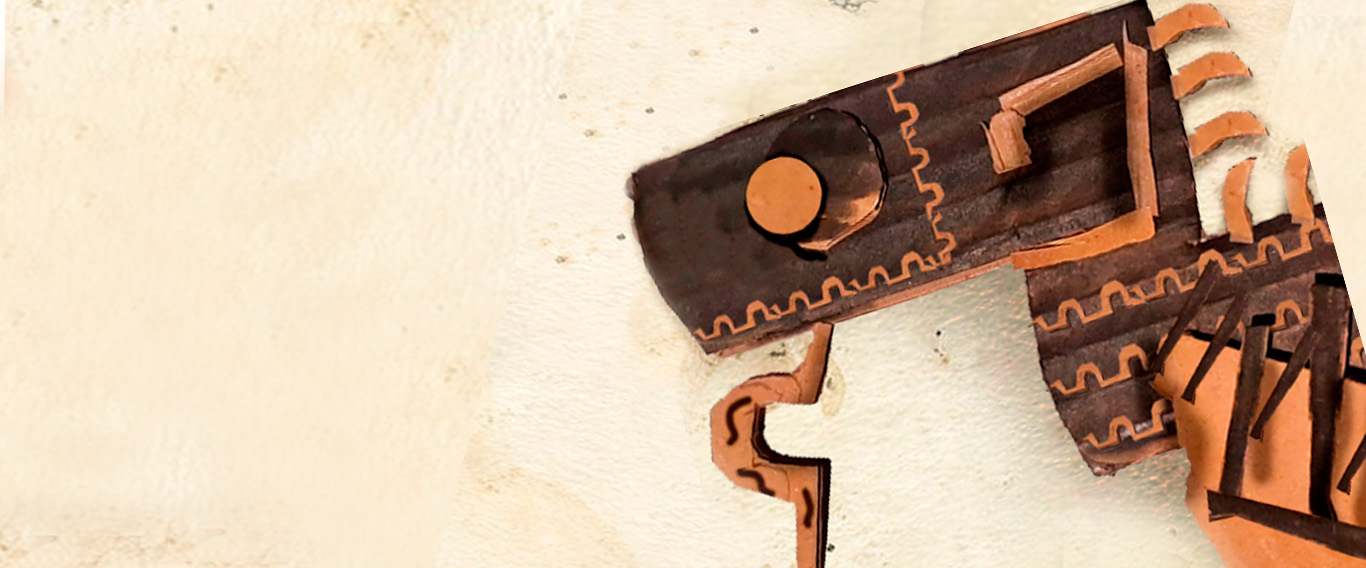
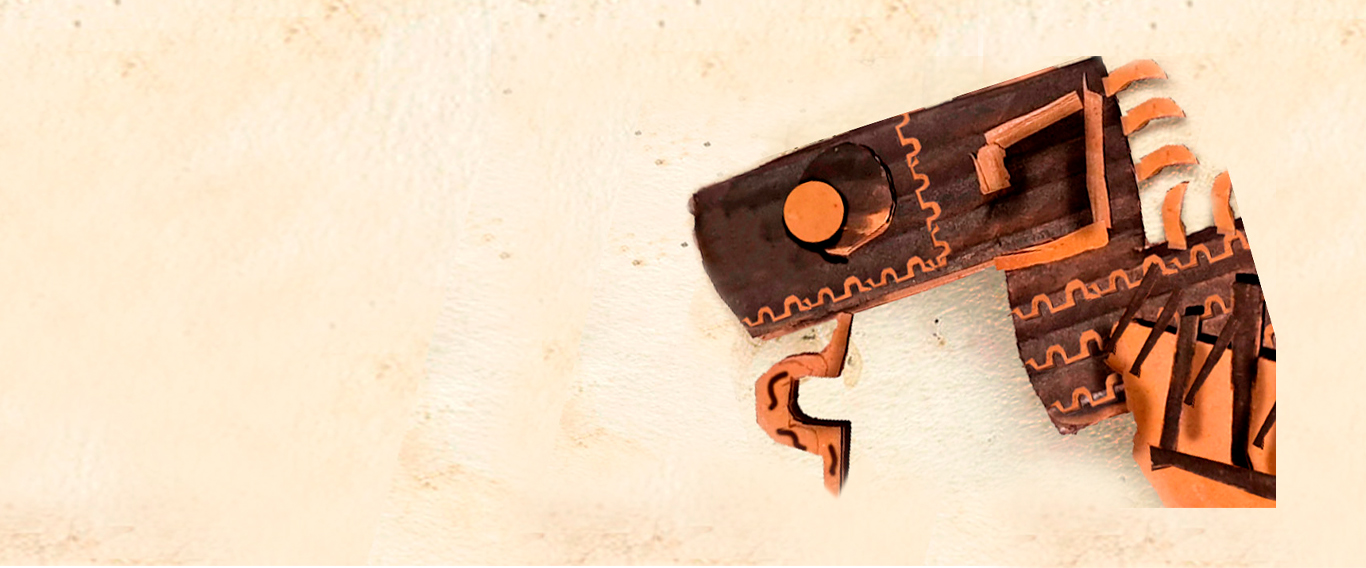
CARRUSEL CORREGIDO
carrusel corregido y algún pequeño cambio

diff --git a/home.html b/home.html
@@ -76,7 +76,7 @@
                             </li>
 
                             <li class="nav-item">
-                                <a class="nav-link active" aria-current="page" href="pagina2.html" id="elementos-navbar">
+                                <a class="nav-link active" aria-current="page" href="historia-p2.html" id="elementos-navbar">
                                     Productos
                                 </a>
                             </li>
@@ -131,7 +131,7 @@
                                     Ecológica
                                 </div>
                                 <p id="textocolumna">
-                                    En Barda, somos más que una cerveza. Somos una tradición, una celebración de la rica historia y cultura de Asturias.
+                                    Sotenible , somos más que una marca. Un gran compromiso àra preservar la rica historia y cultura de Asturias.
                                 </p>
                                 <div>
                                     <img src="Images/images-p1/logo2.png" class="img-fluid rounded-circle" alt="">
@@ -145,7 +145,7 @@
                                     Calidad
                                 </div>
                                 <p id="textocolumna">
-                                    Elaborada con ingredientes cuidadosamente seleccionados, cada sorbo captura la esencia de Asturias: natural, fresca y llena de carácter.
+                                    Elaborada con ingredientes cuidadosamente seleccionados, cada sorbo captura la esencia de Asturias.
                                 </p>
                                 <div>
                                     <img src="Images/images-p1/logo3.png" class="img-fluid rounded-circle" alt="">
@@ -214,12 +214,12 @@
 
 
 
-            <div class="partes-apareciendo">
+            <div class="carrusel">
                 <div class="carrusel">
                     <div id="carouselExampleFade" class="carousel slide carousel-fade" data-bs-ride="carousel">
                         <div class="carousel-inner">
                         <div class="carousel-item active" data-bs-interval="1500"> 
-                            <img src="Images/images-p1/trasgu carrusel.jpg" alt="Imagen 1">
+                            <img src="Images/images-p1/trasgu carrusel.jpg" alt=>
                             <div class="carousel-caption">
                                 <h2 id="pretitulocarrusel"> gama cerveza</h2>
                                 <h1 id="titulocarrusel">NEGRA</h1>
@@ -228,7 +228,7 @@
                             </div>
                         </div>
                         <div class="carousel-item" data-bs-interval="1500"> 
-                            <img src="Images/images-p1/cuelebre carrusel.jpg" alt="Imagen 2">
+                            <img src="Images/images-p1/cuelebre carrusel.jpg" alt=>
                             <div class="carousel-caption">
                                 <h2 id="pretitulocarrusel"> gama cerveza</h2>
                                 <h5 id="titulocarrusel">NEGRA</h5>
@@ -237,7 +237,7 @@
                             </div>
                         </div>
                         <div class="carousel-item" data-bs-interval="1500">
-                            <img src="Images/images-p1/xana carrusel.jpg" alt="Imagen 3">
+                            <img src="Images/images-p1/xana carrusel.jpg" alt=>
                             <div class="carousel-caption">
                                 <h2 id="pretitulocarrusel"> gama cerveza</h2>
                                 <h5 id="titulocarrusel">NEGRA</h5>

diff --git a/historia-p2.html b/historia-p2.html
@@ -93,11 +93,11 @@
             
             <div class="row">
               <div class="col-xl-6 col-md-6 col-sm-6">
-                <img src="Images/images-p2/IMAGEN2 PAGINA 2.png" class="img-fluid rounded" alt="Imagen 1 de Cervezas">
+                <img src="Images/images-p2/IMAGEN2 PAGINA 2.png" class="img-fluid rounded" alt=>
               </div>
               
               <div class="col-xl-6 col-md-6 col-sm-6">
-                <img src="Images/images-p2/IMAGEN1 PAGINA 2.png" class="img-fluid rounded" alt="Imagen 2 de Cervezas">
+                <img src="Images/images-p2/IMAGEN1 PAGINA 2.png" class="img-fluid rounded" alt=>
               </div>
             </div>
       
@@ -105,7 +105,7 @@
 
             <div class="row">
               <div class="col-xl-12 col-md-12 col-sm-12">
-                <img src="Images/images-p2/IMAGEN3 PAGINA 2.png" class="imagenfinal" alt="Imagen 3 de Cervezas">
+                <img src="Images/images-p2/IMAGEN3 PAGINA 2.png" class="imagenfinal" alt=>
               </div>
             </div>
 
@@ -114,7 +114,7 @@
           </div>
       
           <div class="col-xl-4 col-md-4 col-sm-4">
-            <img src="Images/images-p2/wdagrth.png" class="sticky-image" alt="Imagen Sticky a la derecha">
+            <img src="Images/images-p2/wdagrth.png" class="sticky-image" alt=>
           </div>
         </div>
       </div>

diff --git a/css/style-p1.css b/css/style-p1.css
@@ -162,7 +162,7 @@
 
     .titulosapartado2{
         font-family: "DUST", sans-serif;
-        font-size: 200px;
+        font-size: 170px;
         color: black;
     }
 
@@ -188,7 +188,7 @@
 
     .subtitulosapartado2{
         font-family: 'Franklin Gothic Medium', 'Arial Narrow', Arial, sans-serif;
-        font-size: 75px;
+        font-size: 65px;
         color: rgb(255, 106, 0);
     }
 
@@ -390,8 +390,8 @@
 
 
             .carousel-item img {
-                width: 100vw;
-                height: 100vh;
+                width: 100%;
+                height: 700px;
                 object-fit: cover;
               }
               .carousel-caption {
@@ -431,7 +431,7 @@
                         font-size: 100px;
                     }
                     #parrafocarrusel{
-                        font-size: 18px;
+                        font-size: 10px;
                     }
                     #pretitulocarrusel{
                         font-size: 35px;
@@ -452,6 +452,11 @@
                     }
                     .boton-enlace{
                         font-size: 16px !important;
+                    }
+                    .carousel-item img {
+                        width: 100%;
+                        height: 420px;
+                        
                     }
                 }
 
